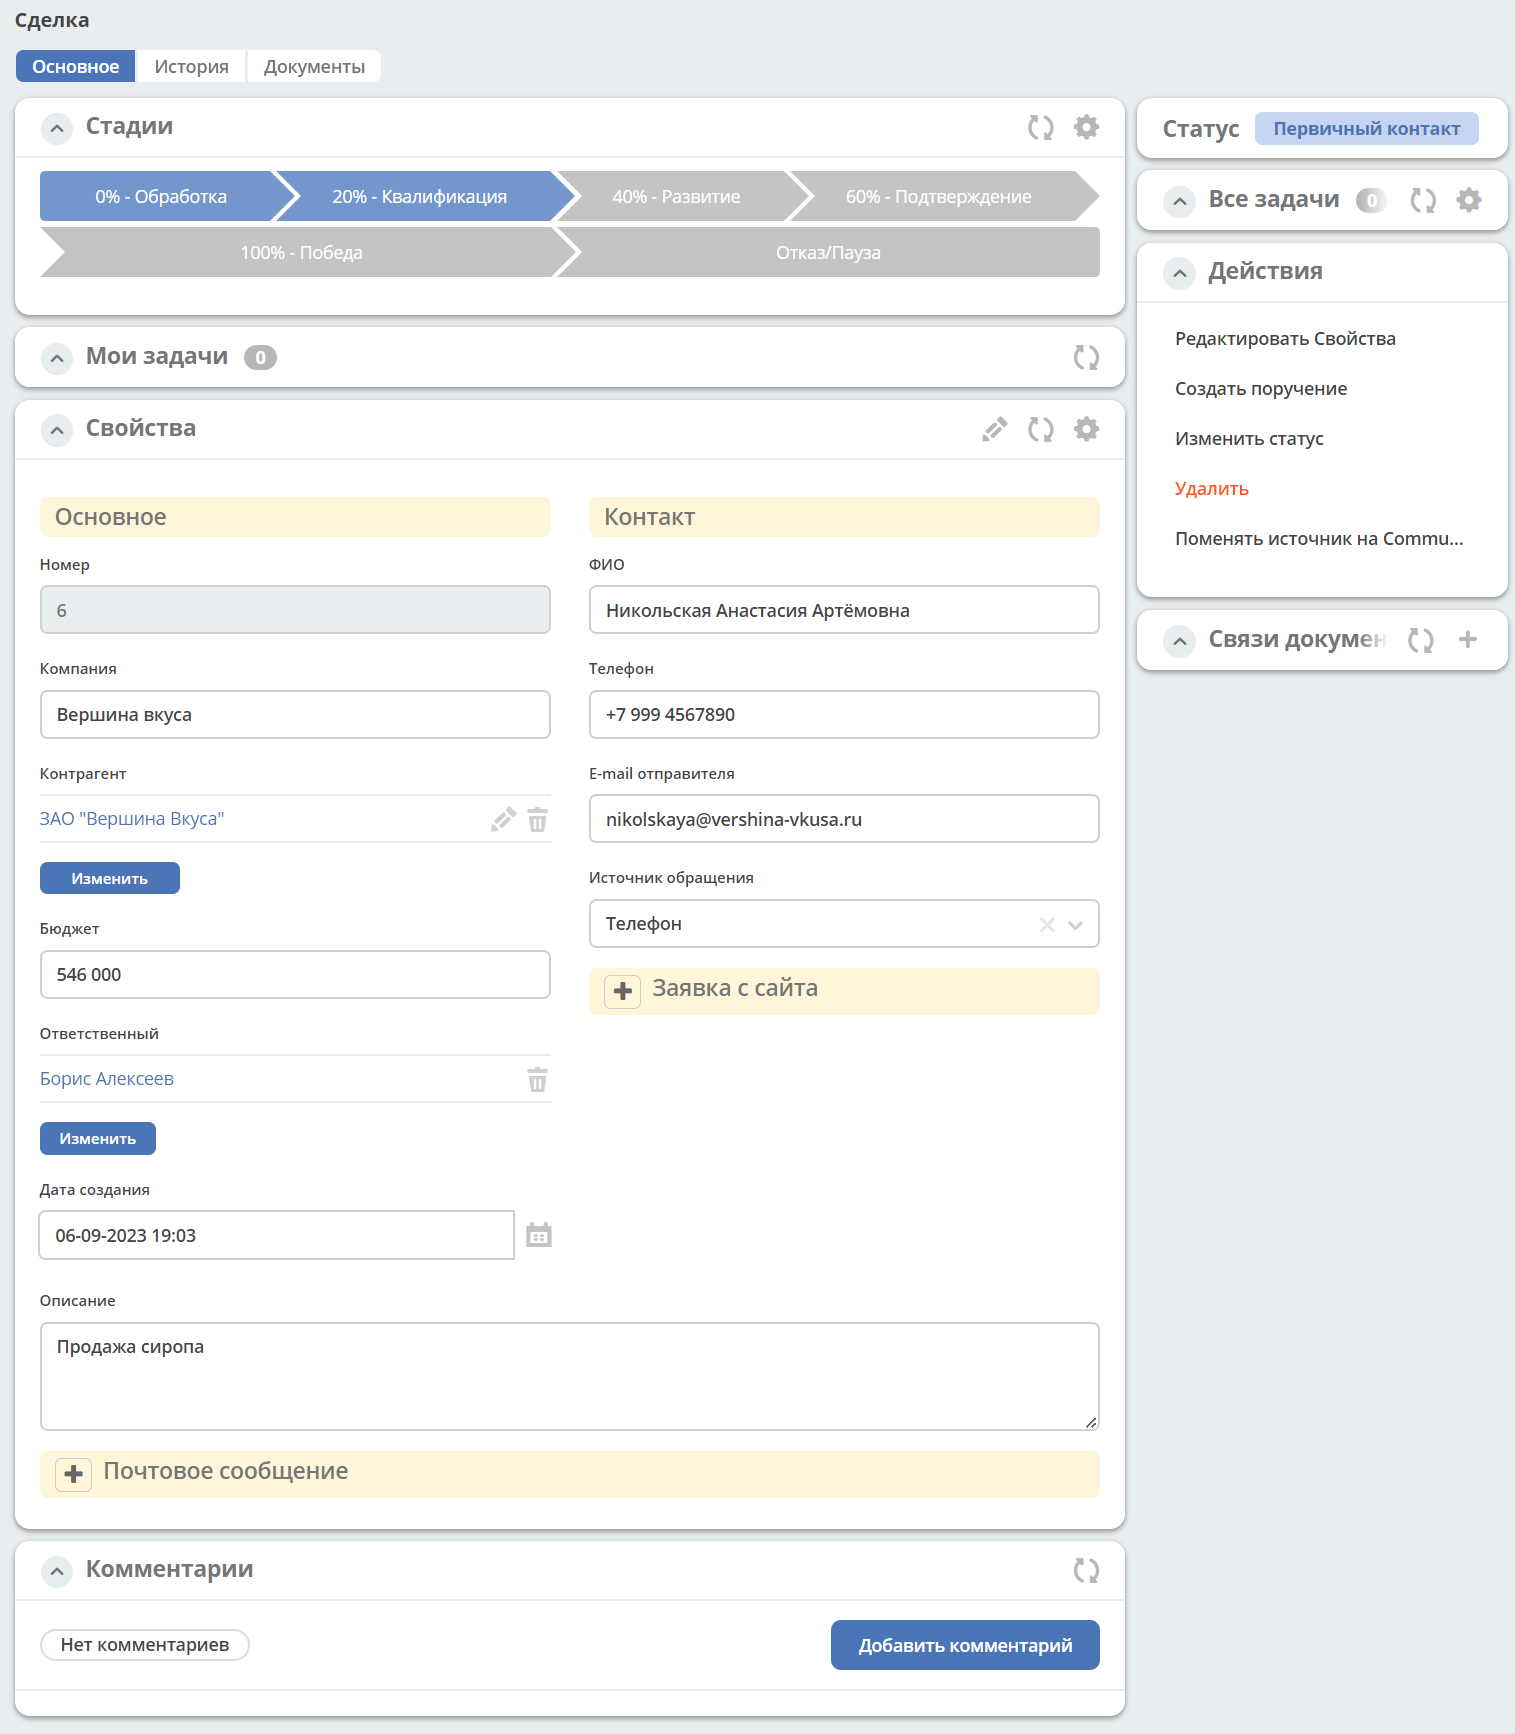
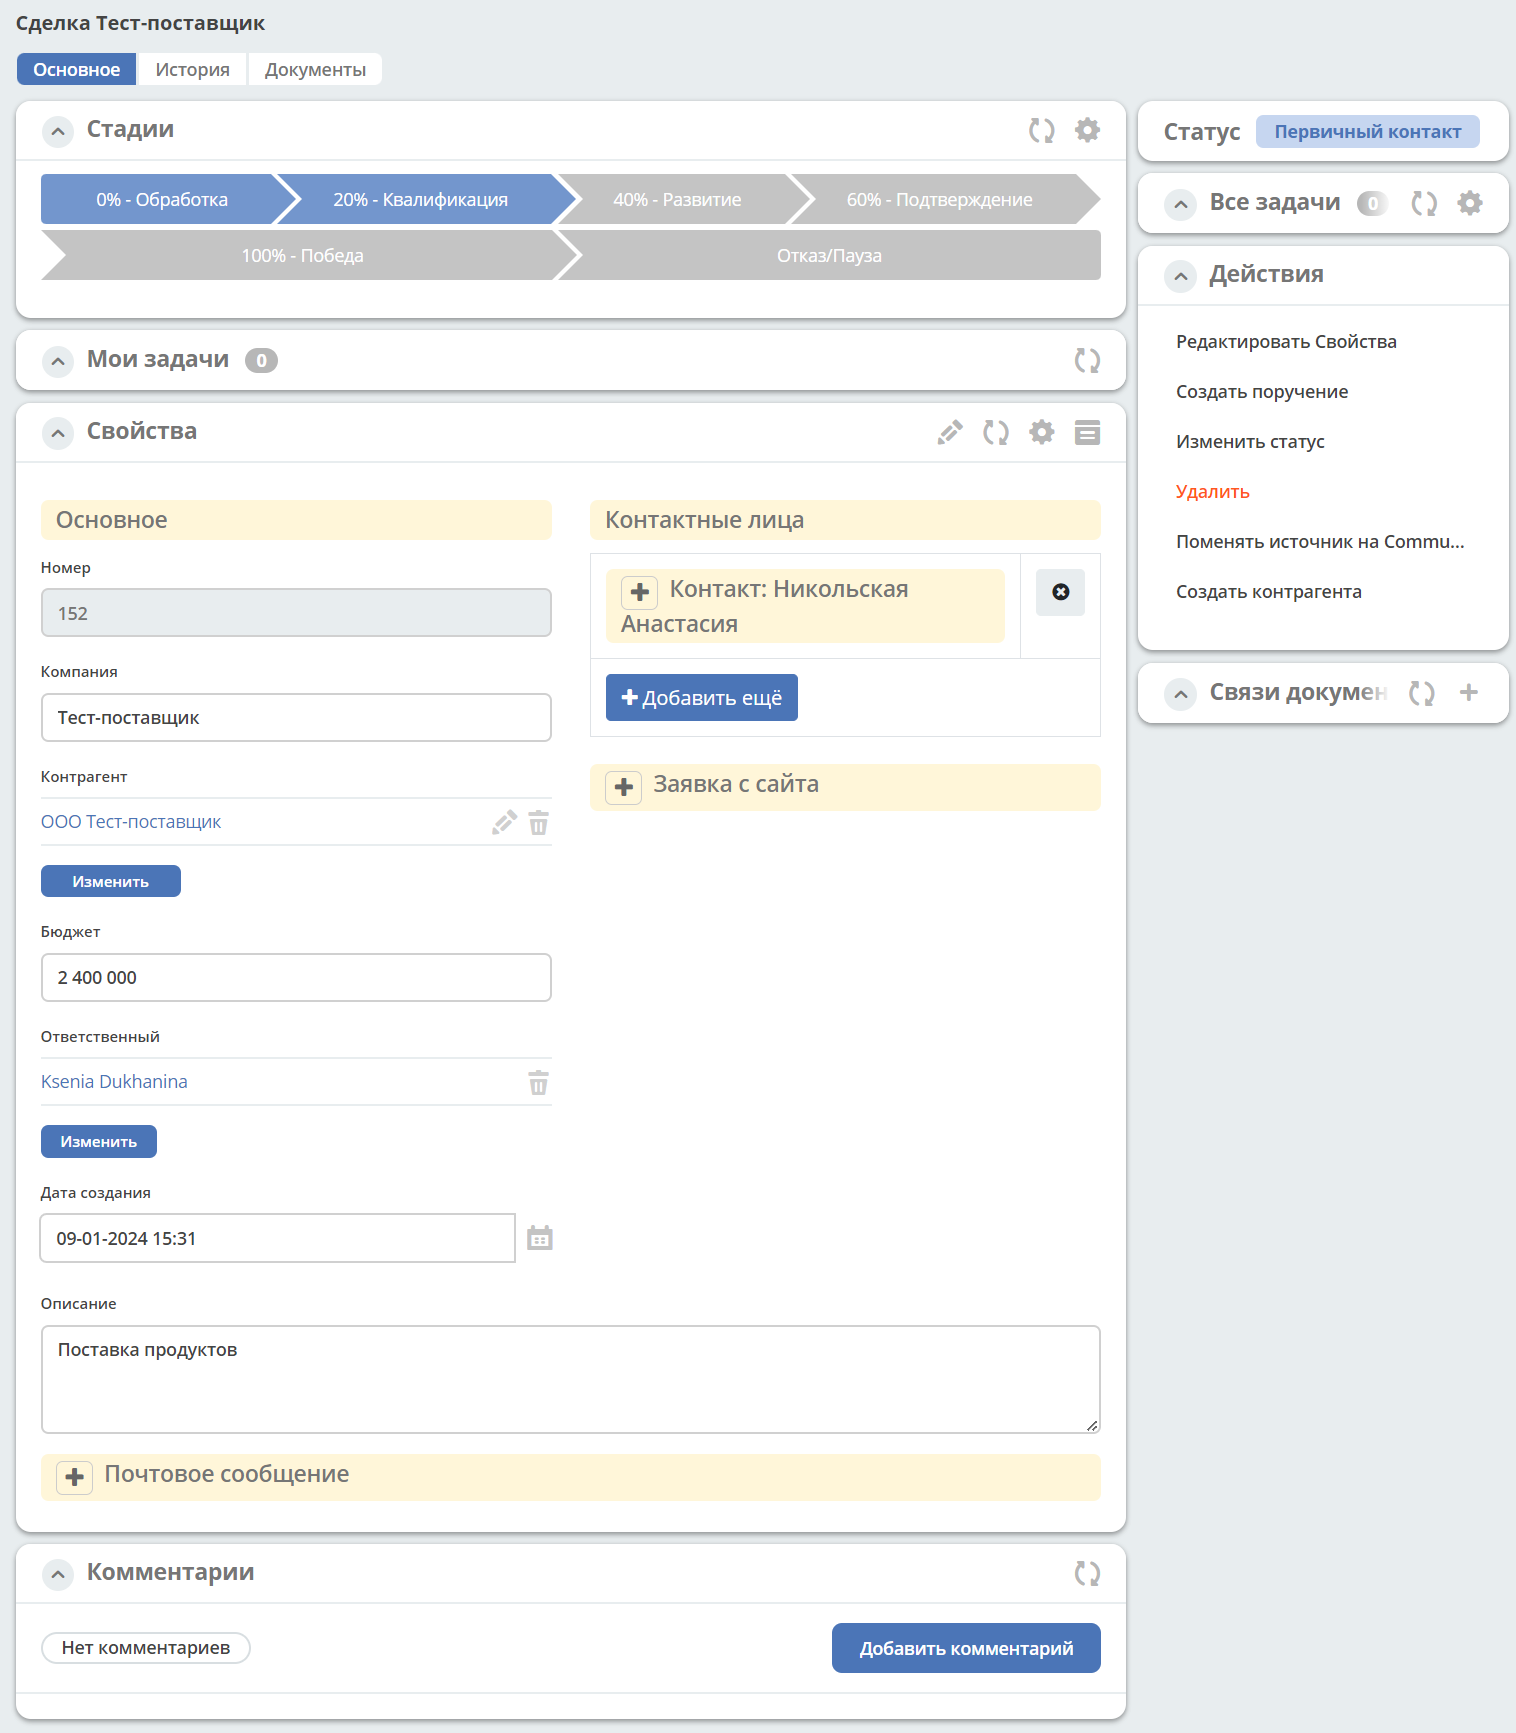
KPI_CRM

diff --git a/docs/introduction/ecos_modules/crm.rst b/docs/introduction/ecos_modules/crm.rst
@@ -20,9 +20,9 @@
       :class: tight-table 
       
       * - **Менеджер по продажам**
-        - Пользователь Системы (сотрудник Компании), запустивший сделку в работу
+        - Пользователь Системы (сотрудник Компании), запустивший сделку в работу. Видит только свои сделки.
       * - **Коммерческий директор**
-        - Пользователь Системы (сотрудник Компании), принимающий решение по сделкам.
+        - Пользователь Системы (сотрудник Компании), принимающий решение по сделкам. Видит все сделки.
 
 Группы оргструктуры, в которые должны быть добавлены пользователи
 ~~~~~~~~~~~~~~~~~~~~~~~~~~~~~~~~~~~~~~~~~~~~~~~~~~~~~~~~~~~~~~~~~~~~~~~~
@@ -39,7 +39,7 @@
       :class: tight-table 
       
       * - **Не обработана**
-        - Новая сделка.
+        - Новая сделка
       * - **Первичный контакт**
         - Общение с потенциальным заказчиком
       * - **Сбор потребностей**
@@ -65,7 +65,7 @@
 ------
 
  .. image:: _static/crm/CRM_1.png
-       :width: 600
+       :width: 700
        :align: center
 
 Журнал содержит поля:
@@ -87,7 +87,7 @@
 Для журнала доступно представление :ref:`канбан<kanban_board>`. Столбцы соответствуют статусам сделки.
 
  .. image:: _static/crm/CRM_12.png
-       :width: 600
+       :width: 700
        :align: center
 
 Например, https://host/v2/journals?journalId=deals-journal&viewMode=kanban 
@@ -105,7 +105,7 @@
 так и из журнала **«Сделки»**:
 
  .. image:: _static/crm/CRM_3.png
-       :width: 600
+       :width: 700
        :align: center
 
 На экране открывается форма создания Сделки:
@@ -118,10 +118,10 @@
       :widths: 20 60
       :class: tight-table 
       
-      * - **Раздел Основное**
-        - 
+      * - **Раздел «Основное»**
+        - Содержит основную информацию о сделке
       * - **Номер**
-        - Номер сделки. Заполняется автоматически после сохранения. 
+        - Номер сделки. Заполняется автоматически после сохранения
       * - **Компания**
         - Наименование компании
       * - **Контрагент**
@@ -134,27 +134,29 @@
         - Заполняется автоматически, может быть изменена
       * - **Описание**
         - Описание запроса потенциального клиента
-      * - **Раздел Контакт**
-        - 
+      * - **Раздел «Контактные лица»**
+        - Содержит информацию о контактных лицах. Контактов может быть несколько - для добавления используйте кнопку **+ Добавить еще**
       * - **ФИО**
-        - ФИО обратившегося представителя компании. 
+        - ФИО представителя компании
+      * - **Департамент**
+        - Департамент представителя 
+      * - **Должность**
+        - Должность представителя
       * - **Телефон**
         - Номер телефона представителя 
-      * - **E-mail отправителя**
-        - Электронный адрес представителя
-      * - **Источник обращения**
-        - Источник обращения из списка
-      * - **Раздел Заявка с сайта**
-        - 
       * - **E-mail**
-        - Электронный адрес представителя
+        - Адрес электронной почты представителя
+      * - **Основной**
+        - Если контактов несколько, выставите для отметки контакта основным для данной сделки
+      * - **Раздел «Заявка с сайта»**
+        - Содержит информацию, если заявка была заполнена на сайте
       * - **Откуда пришел на сайт**
         - Информация из заявки, которую заполняет представитель
       * - **Идентификатор GA**
         - Идентификатор тега Google Analytics
       * - **Идентификатор YM**
         - Идентификатор тега Яндекс. Метрики
-      * - **Почтовое сообщение**
+      * - **Раздел Почтовое сообщение**
         - Содержит информацию из письма, направленного на email. См. Настройки для парсинга писем
 
 Заполненная карточка 

diff --git a/docs/settings_kb/processes/ecos_bpmn/ecos_bpmn_kpi.rst b/docs/settings_kb/processes/ecos_bpmn/ecos_bpmn_kpi.rst
@@ -1,0 +1,85 @@
+KPI
+====
+
+Разработан функционал для настройки норм времени на: 
+
+    *	выполнение задач,
+    *	смену статусов,
+    *	выполнение условий (событие обновление атрибутов).
+
+Данные нормы могут отличаться в зависимости от параметров (значений атрибутов) конкретного экземпляра типа данных.
+
+Нормы доступны для настройки пользователями.
+
+Настройка
+----------
+
+Для настройки KPI необходимо перейти в **Раздел администратора - Управление процессами – Настройка KPI**
+
+ .. image:: _static/KPI/01.png
+       :width: 700
+       :align: center
+
+Форма создания:
+
+ .. image:: _static/KPI/02.png
+       :width: 600
+       :align: center
+
+В форме необходимо указать **Название**, выбрать **Тип (Продолжительность или Количество)**, **Процесс**, **Элемент BPMN**, **Норму**.
+
+Можно задать условие применения KPI на **DMN**. Модель описывается в DMN, базовым рекордом является документ, по которому идет бизнес-процесс.
+
+Если DMN указан и результат вычисления возвращает boolean (true), то KPI применяется. Название возвращаемой переменной не имеет значения.
+
+KPI по продолжительности
+~~~~~~~~~~~~~~~~~~~~~~~~~~
+
+KPI по продолжительности позволяет отслеживать время между указанными BPMN элементами (**Исходный** и **Целевой**) в процессе.
+
+ .. image:: _static/KPI/03.png
+       :width: 600
+       :align: center
+
+.. important:: 
+
+ Исходный и целевой элемент должны быть в рамках одного процесса.
+
+.. note::
+    
+ Не рекомендуется использовать на start и end одного multi-instance элемента, продолжительность будет считаться некорректно.
+
+Время (**Норма**) может учитываться 2 **Типов**- календарное или рабочее (в текущей реализации только с использованием рабочего календаря и расписания по умолчанию - id=DEFAULT).
+
+Продолжительность времени указывается в формате **d h m**:
+
+    * 1d 3h 10m - 1 день 3 часа 10 минут
+    * 1d - 1 день
+    * 1h 15m - 1 час 15 минут
+    * 30m - 30 минут
+
+KPI по количеству
+~~~~~~~~~~~~~~~~~
+
+KPI по количеству позволяет считать количество прохождения через указанный элемент.
+
+Выберите **Целевой BPMN элемент** и укажите количество прохождений в поле **Норма**.
+
+ .. image:: _static/KPI/04.png
+       :width: 600
+       :align: center
+
+В дальнейшем планируется добавить настройку периодов времени - месяц, квартал, год и т.д. 
+
+Значения KPI
+-------------
+
+В журналах администратора выведен общий журнал KPI значений.
+
+ .. image:: _static/KPI/05.png
+       :width: 700
+       :align: center
+ 
+Для удобства рекомендуется настроить свой журнал по KPI с нужными фильтрами, группировками, агрегациями. 
+
+Если KPI по продолжительности, то поля **Норма** и **Значение** можно настроить с использованием :ref:`форматтера Duration (Продолжительность)<DurationFormatter>` для лучшей читаемости.

diff --git a/docs/introduction/functions/work_calendar.rst b/docs/introduction/functions/work_calendar.rst
@@ -8,9 +8,7 @@
 
 Определяет обычный распорядок рабочих дней. 
 
-Настройка расположена в журнале http://localhost/v2/admin?journalId=type$working-schedule&type=JOURNAL
-
-Раздел администратора - Модель – Рабочее расписание
+Настройка расположена в журнале http://localhost/v2/admin?journalId=type$working-schedule&type=JOURNAL (**Раздел администратора - Модель – Рабочее расписание**)
 
  .. image:: _static/work_calendar/calendar_1.png
        :width: 700
@@ -54,9 +52,7 @@
 
 Функциональность для формирования списка дат, которые изменяют обычный распорядок рабочих дней:
 
-Настройка расположена в журнале http://localhost/v2/admin?journalId=working-calendar&type=JOURNAL
-
-Раздел администратора - Модель – Производственный календарь
+Настройка расположена в журнале http://localhost/v2/admin?journalId=working-calendar&type=JOURNAL (**Раздел администратора - Модель – Производственный календарь**)
 
  .. image:: _static/work_calendar/calendar_3.png
        :width: 700

diff --git a/docs/settings_kb/interface/journals/formatters.rst b/docs/settings_kb/interface/journals/formatters.rst
@@ -181,6 +181,8 @@ DefaultFormatter / По умолчанию
 
 Всегда отдает строковое значение, которое получили из значения атрибута. Если ячейка имеет булево значение, то отдает "Да" или "Нет"
 
+.. _DurationFormatter:
+
 DurationFormatter / Продолжительность
 ~~~~~~~~~~~~~~~~~~~~~~~~~~~~~~~~~~~~~~
 

diff --git a/docs/settings_kb/processes/BPMN_ecos.rst b/docs/settings_kb/processes/BPMN_ecos.rst
@@ -11,6 +11,7 @@
     ecos_bpmn/ecos_bpmn_external_task
     ecos_bpmn/ecos_bpmn_tasks
     ecos_bpmn/ecos_bpmn_adminstration
+    ecos_bpmn/ecos_bpmn_kpi
 
 .. _ecos-bpmn_platform:
 
